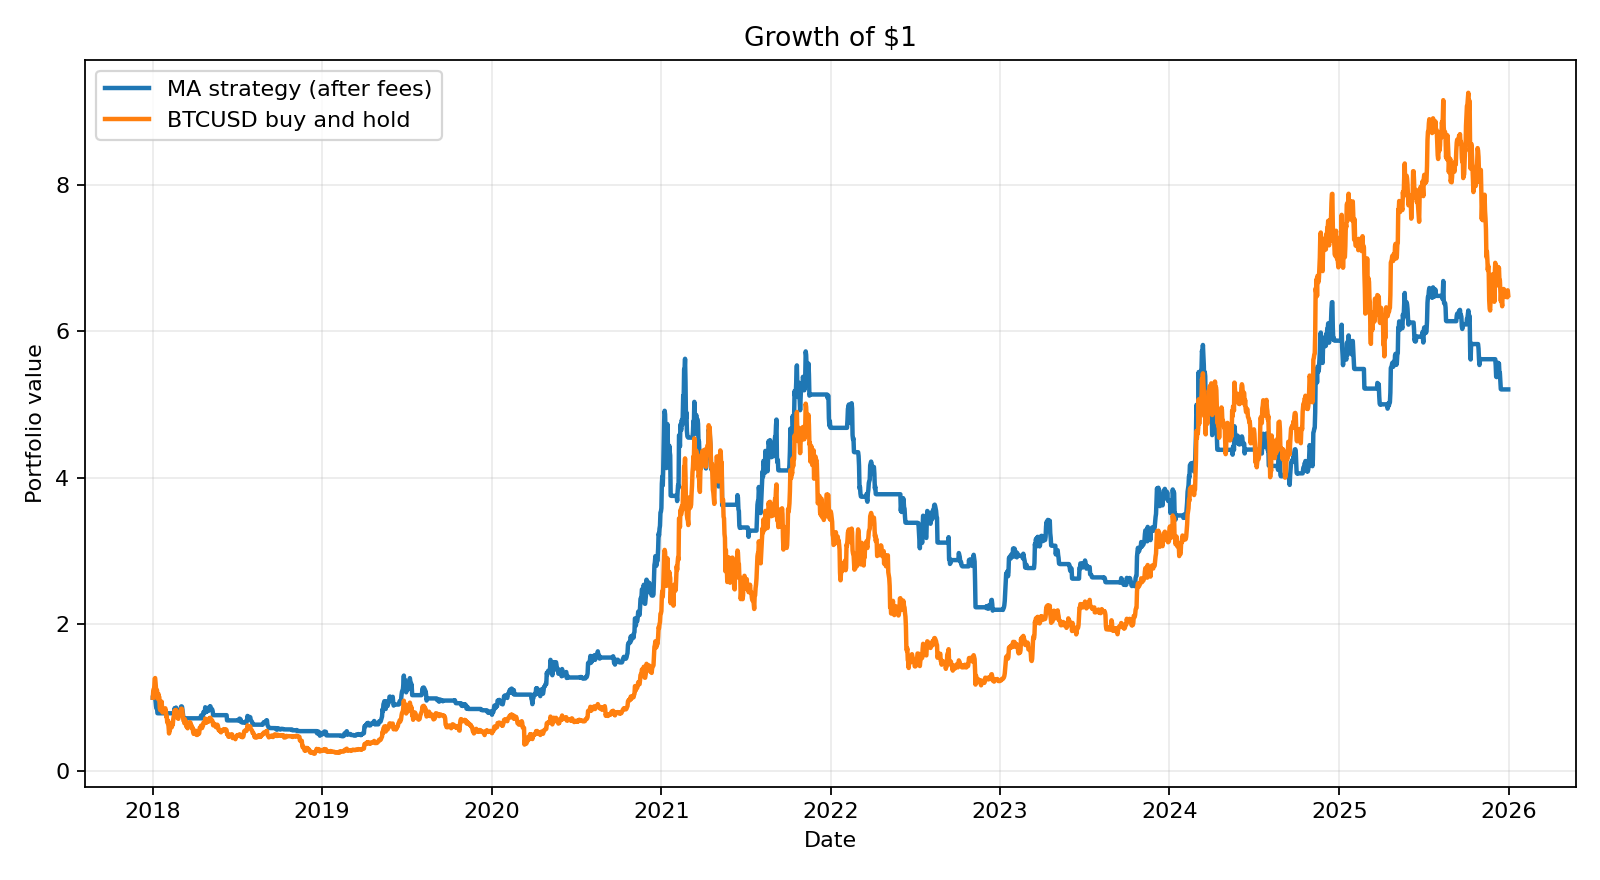
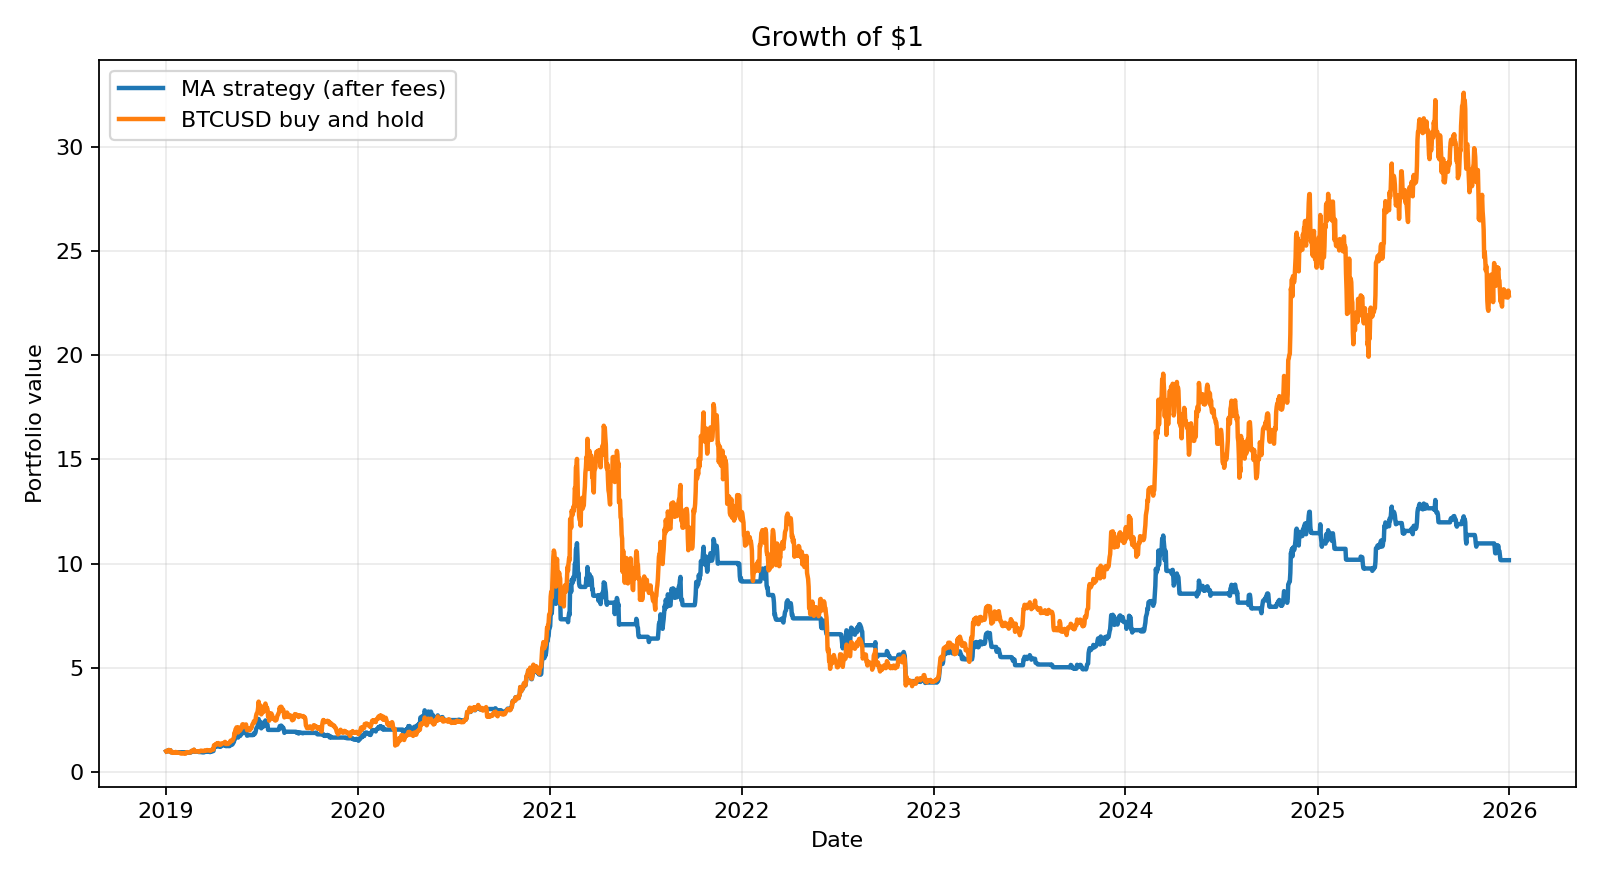
align strategy comparison periods

diff --git a/examples/simple_ma/README.md b/examples/simple_ma/README.md
@@ -48,7 +48,7 @@ python examples/simple_ma/run.py \
   --instrument BTCUSD \
   --benchmark BTCUSD \
   --region us \
-  --start 2018-01-01 \
+  --start 2019-01-01 \
   --end 2025-12-31 \
   --deal-price open \
   --trade-unit 0 \
@@ -59,7 +59,9 @@ python examples/simple_ma/run.py \
 ```
 
 The figure plots the growth of $1 in the moving-average strategy after trading
-fees against a buy-and-hold baseline using BTCUSD's daily benchmark returns:
+fees against a buy-and-hold baseline using BTCUSD's daily benchmark returns.
+Both series use the same 2,557 daily sessions from 2019-01-01 through
+2025-12-31, matching the portfolio baseline suite below:
 
 ![Bitcoin moving-average strategy versus buy and hold](bitcoin_returns.png)
 
